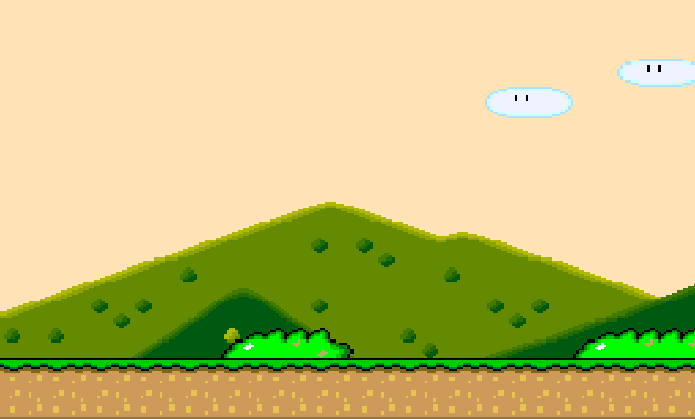
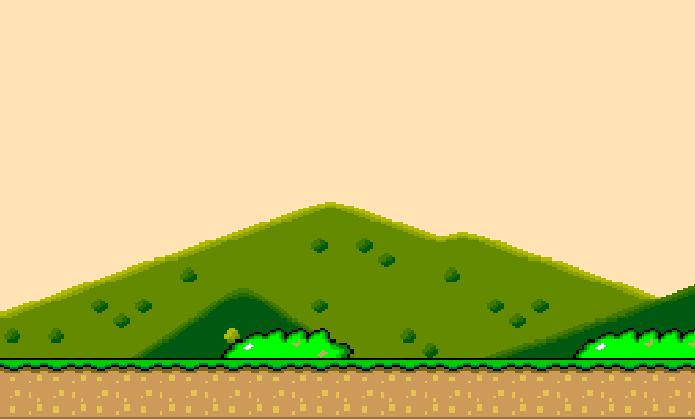
Adicionando melhorias

Changed region(s): [[0.8763, 0.1241, 1.0, 0.2172], [0.695, 0.1862, 0.846, 0.2792]]

diff --git a/assets/css/styles.css b/assets/css/styles.css
@@ -1,54 +1,112 @@
+@import url('https://fonts.googleapis.com/css2?family=Press+Start+2P&display=swap');
+
+:root {
+    --primary-color: rgb(252,228,180);
+    --black-color: #000;
+}
+
 * {
     margin: 0;
     padding: 0;
     box-sizing: border-box;
 }
 
-.intro {
-    height: 1.5rem;
-    width: 5rem;
-    display: flex;
-    align-items: center;
-    background: red;
-}
-
-.background {
-    height: 100vh;
-    width: 100%;
-    display: flex;
-    justify-content: center;
-    align-items: center;
+body {
     background-image: url(../img/background.png);
     background-size: cover;
     background-position: center;
     background-repeat: no-repeat;
 }
 
+a {
+    text-decoration: none;
+    color: var(--black-color);
+}
+
+header, footer {
+    text-align: center;
+}
+
+.mario-jump {
+    display: flex;
+    flex-flow: column;
+    align-items: center;
+    height: 100vh;
+    overflow: hidden;
+    padding: 3.5rem;
+}
+
+.name-game {
+    display: flex;
+    flex-flow: column;
+    margin: 1rem;
+    padding: 1rem;
+    border-radius: 0.5rem;
+    background: var(--primary-color);
+    border: var(--black-color) solid;
+    text-align: center;
+}
+
+.grid {
+    display: grid;
+    grid-template-columns: 1fr 0.3fr;
+}
+
+.info {
+    display: flex;
+    flex-flow: column;
+    justify-content: space-evenly;
+}
+
 .game-board {
-    width: 50%;
-    height: 50rem;
-    margin: 3rem;    
+    min-width: 50%;
+    min-height: 50rem;
+    margin: 1rem;    
     position: relative;
     overflow: hidden;
     background-image: url(../img/mario-background.png);
     background-repeat: no-repeat;
     background-position: center;
     background-size: cover;
+    border-radius: 1rem;
+    border: var(--black-color) solid;
+}
+
+.description {
+    flex-flow: column;
+    align-items: center;
+    text-align: center;
+    background: var(--primary-color);
+    border-radius: 1rem;
+    border: var(--black-color) solid;
+    padding: 1rem 1.5rem;
+    height: 10rem;
+    color: var(--black-color);
+    margin: 1rem 0.5rem;
+}
+
+.contact {
+    width: 20rem;
+    height: 1rem;
+    display: flex;
+    flex-flow: row;
+    align-items: center;
+    justify-content: space-evenly;
+    align-self: center;
+    margin: 3rem 0.5rem;
 }
 
 .koopa {
     position: absolute;
-    bottom: 0;
-    width: 20rem;
-    /*left: 0px;*/
+    bottom: 7rem;
+    width: 5rem;
     animation: koopa-animation 1.5s infinite linear;
 }
 
 .mario {
     width: 8rem;
     position: absolute;
-    bottom: 0;
-    /*left: 40px;*/
+    bottom: 7rem;
 }
 
 .jump {
@@ -59,6 +117,10 @@
     position: absolute;
     width: 30rem;
     animation: clouds-animation 15s infinite linear;
+}
+
+.question-block {
+    width: 1rem;
 }
 
 @keyframes koopa-animation {
@@ -73,23 +135,23 @@
 
 @keyframes jump {
     0% {
-        bottom: 0;
+        bottom: 7rem;
     }
 
     40% {
-        bottom: 13rem;
+        bottom: 18rem;
     }
 
     50% {
-        bottom: 13rem;
+        bottom: 18rem;
     }
 
     60% {
-        bottom: 13rem;
+        bottom: 18rem;
     }
 
     100% {
-        bottom: 0;
+        bottom: 7rem;
     }
 }
 

diff --git a/index.html b/index.html
@@ -1,5 +1,6 @@
 <!DOCTYPE html>
 <html lang="pt-BR">
+
 <head>
     <meta charset="UTF-8">
     <meta name="viewport" content="width=device-width, initial-scale=1.0">
@@ -7,22 +8,29 @@
     <script src="assets/js/script.js"></script>
     <title>Mario Jump</title>
 </head>
+
 <body>
-    <div class="background">
-        <section class="intro">
-            <h1>Mario Jump</h1>
-            <p>Faça o Mario pular os Koopas para não morrer!</p>
-        </section>
-        <div class="game-board">
-        <img src="./assets/img/nuvens.png" alt="nuvens" class="clouds">
-        <img src="./assets/img/mario.gif" alt="mario" class="mario">
-        <img src="./assets/img/koopa.gif" alt="koopa" class="koopa">
+    <div class="mario-jump">
+        <div class="grid">
+            <div class="game-board">
+                <img src="./assets/img/nuvens.png" alt="nuvens" class="clouds">
+                <img src="./assets/img/mario.gif" alt="mario" class="mario">
+                <img src="./assets/img/koopa.gif" alt="koopa" class="koopa">
+            </div>
+            <div class="info">
+                <div class="name-game">
+                    <h1>Mario Jump</h1>
+                    <p>Faça o Mario pular os Koopas para não morrer!</p>
+                </div>
+                <article class="description">
+                    <h2>Como jogar?</h2><br>
+                    <p>Pule com qualquer tecla do teclado para fazer com que o Mario pule sobre as Koopas que vierem, mas
+                    <b>CUIDADO!</b> Pois se ele bater em uma Koopa, ele morre e é <b>GAME OVER!</b></p>
+                </article>
+                <div class="description contact">Feito por<a href="https://www.linkedin.com/in/guilhermefermino/" target="_blank">Guilherme Fermino </a><img src="./assets/img/question-block.gif" alt="bloco do mario" class="question-block"></div>
+            </div>
         </div>
-        <section>
-            <h1>Como jogar?</h1>
-            <p>Aperte alguma tecla para conseguir fazer com que o Mario pule o Kopa para não morrer e perder o jogo.</p>
-            <p>Para não</p>
-        </section>
     </div>
 </body>
+
 </html>

diff --git a/assets/js/script.js b/assets/js/script.js
@@ -8,25 +8,31 @@ const jump = () => {
 }
 
 const loop = setInterval(() => {
+
     const koopa = document.querySelector('.koopa');
     const mario = document.querySelector('.mario');
+    const nuvens = document.querySelector('.clouds');
     
     const koopaPosition = koopa.offsetLeft;
-    const marioPosition = +window.getComputedStyle(mario).bottom.replace('px', '');
-
-    console.log(marioPosition);
+    const marioPosition = +window.getComputedStyle(mario).bottom.replace("px", "");
+    const nuvensPosition = nuvens.offsetLeft;
     
-    if (koopaPosition <= -10 && marioPosition < 40) {
+    if (koopaPosition <= 95 && koopaPosition > 0 && marioPosition < 220) {
         koopa.style.animation = 'none';
         koopa.style.left = `${koopaPosition}px`;
 
         mario.style.animation = 'none';
         mario.style.bottom = `${marioPosition}px`;
 
+        nuvens.style.animation = 'none';
+        nuvens.style.left = `${nuvensPosition}px`;
+
         mario.src = './assets/img/game-over.png';
         mario.style.width = '3.6rem';
         mario.style.rotate = '-3.5deg';
         mario.style.marginLeft = '3rem';
+
+        koopa.src = './assets/img/koopa.png'
 
         clearInterval(loop);
     }
